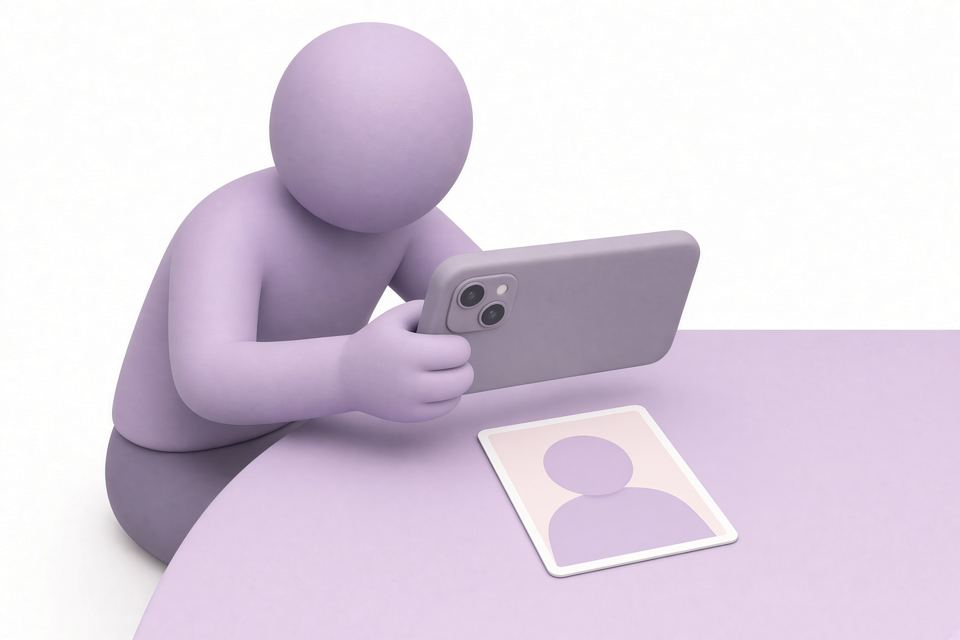
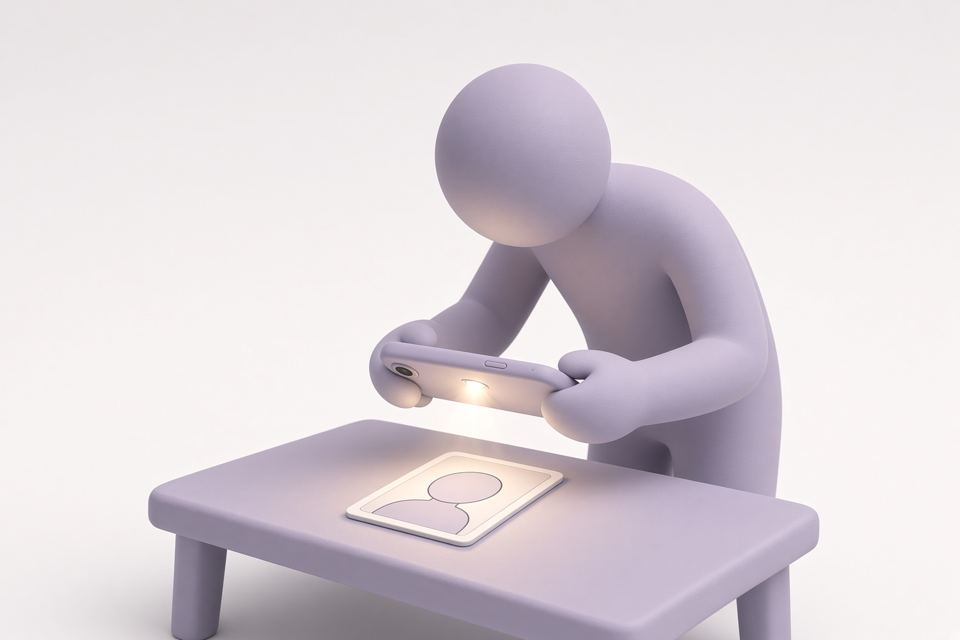
Level the phone, swap the sun for a flash, and seat the card

diff --git a/index.html b/index.html
@@ -571,7 +571,7 @@
         </div>
         <div id="mycards-image-search-result" class="hidden"></div>
         <figure class="bg-white border border-gray-200 rounded-2xl overflow-hidden">
-          <img src="./guide-pictogram.jpg?v=6" alt="机に置いて、明るくして、真上から撮る" class="w-full h-auto">
+          <img src="./guide-pictogram.jpg?v=7" alt="机に置いて、明るくして、真上から撮る" class="w-full h-auto">
           <figcaption class="px-3 py-2 text-[12px] text-gray-600">机に置いて、明るくして、真上から撮る</figcaption>
         </figure>
         <div class="flex items-start gap-3">
@@ -1089,7 +1089,7 @@
                         <label class="block font-bold text-gray-800">📷 トレカ写真・AI自動入力 <span id="photo-req-label" class="text-pink-600">（必須・最大3枚）</span></label>
                     </div>
                     <figure class="bg-white border border-gray-200 rounded-xl overflow-hidden">
-                      <img src="./guide-pictogram.jpg?v=6" alt="机に置いて、明るくして、真上から撮る" class="w-full h-auto">
+                      <img src="./guide-pictogram.jpg?v=7" alt="机に置いて、明るくして、真上から撮る" class="w-full h-auto">
                       <figcaption class="px-2.5 py-1.5 text-[11px] text-gray-600">机に置いて、明るくして、真上から撮る</figcaption>
                     </figure>
                     <div class="grid grid-cols-2 gap-2">
